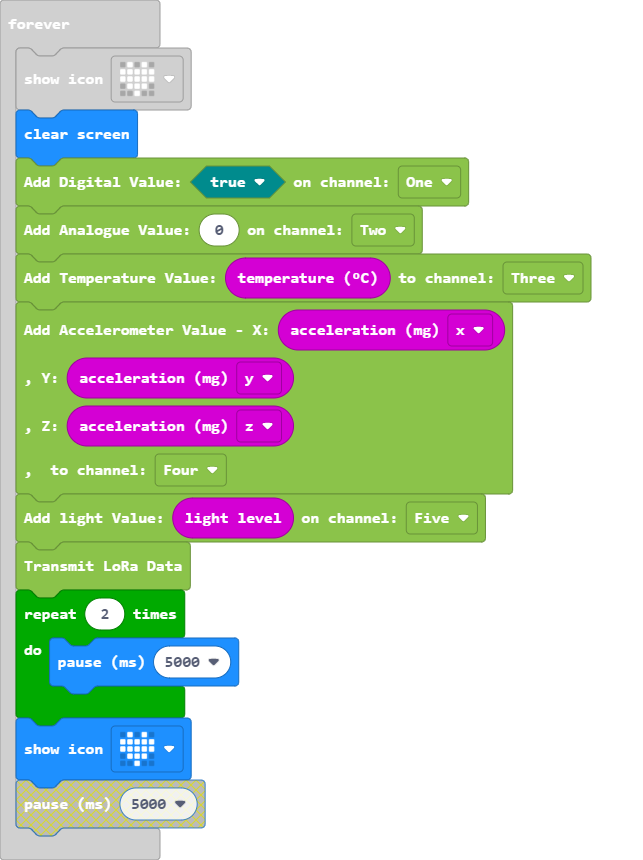
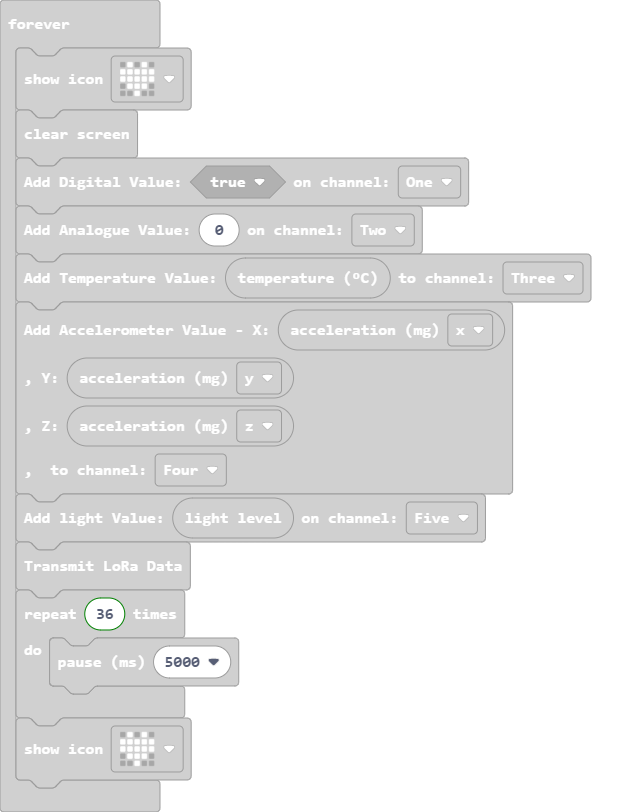
Update main.blocks, main.ts

diff --git a/main.ts b/main.ts
@@ -19,7 +19,7 @@ basic.forever(function () {
     )
     IotLoRaNode.LightValue(input.lightLevel(), Channels.Five)
     IotLoRaNode.loraTransmitPayload()
-    for (let index = 0; index < 2; index++) {
+    for (let index = 0; index < 36; index++) {
         basic.pause(5000)
     }
     basic.showIcon(IconNames.Heart)
